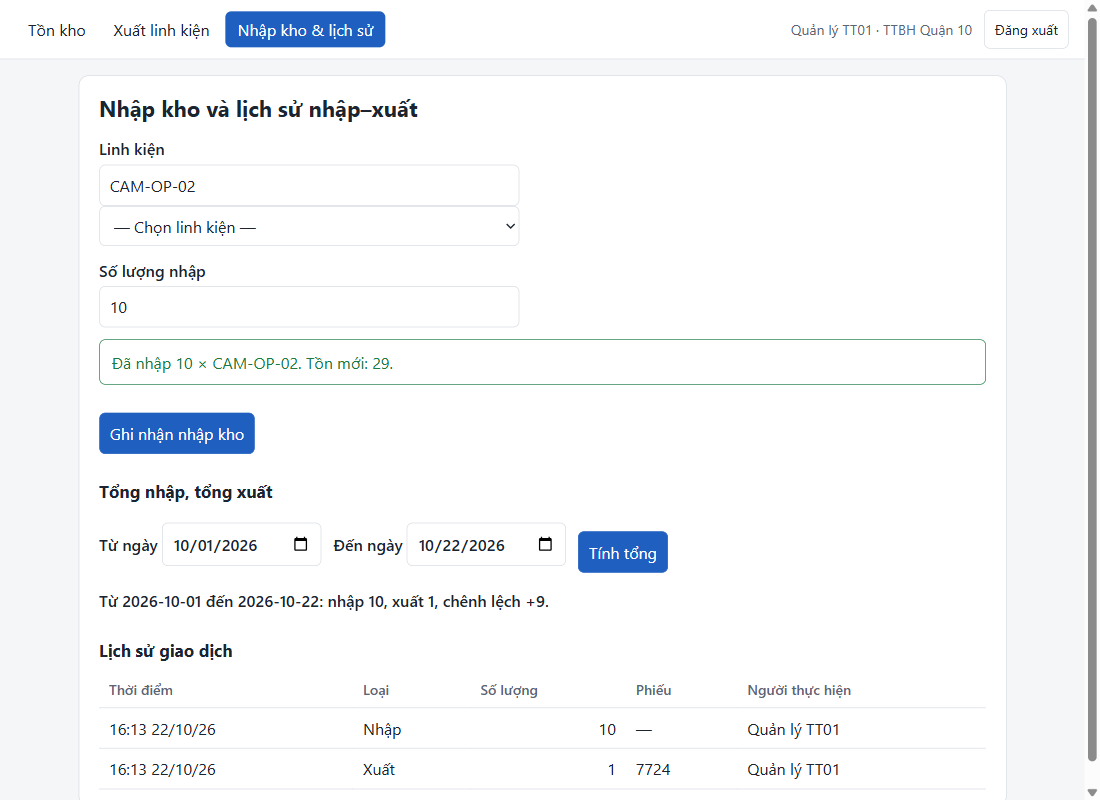
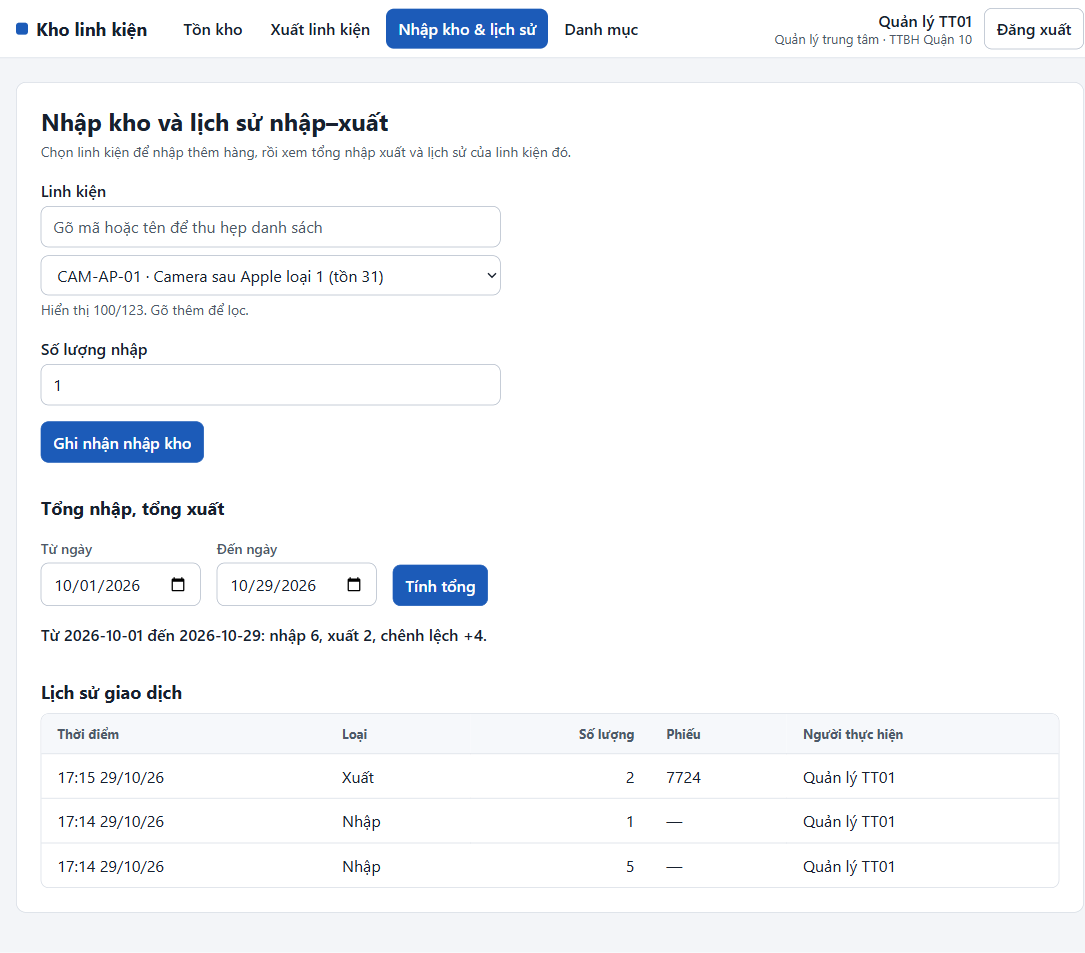
docs: cập nhật README, khai báo AI và ảnh chụp giao diện theo giao diện mới

diff --git a/README.md b/README.md
@@ -31,7 +31,7 @@ Bốn bước, mỗi bước một lệnh, chạy trong thư mục gốc của r
 3. `python -m src.db_init` (tự tạo CSDL nếu chưa có, tạo bảng và nạp dữ liệu mẫu; chạy lại lần hai không lỗi)
 4. `python -m src.app`
 
-Kiểm tra hệ thống chạy đúng: mở http://localhost:5000/health phải trả `{"db":"ok","status":"ok"}`; mở http://localhost:5000 và đăng nhập bằng mã người dùng `2` (kỹ thuật viên trung tâm Ninh Kiều) hoặc `101` (quản lý trung tâm Quận 10).
+Kiểm tra hệ thống chạy đúng: mở http://localhost:5000/health phải trả `{"db":"ok","status":"ok"}`; mở http://localhost:5000 và bấm "Kỹ thuật viên" (mã `2`, trung tâm Ninh Kiều) hoặc "Quản lý trung tâm" (mã `101`, trung tâm Quận 10) để đăng nhập ngay; tài khoản khác thì nhập mã ở mục "Đăng nhập bằng mã người dùng khác". Kỹ thuật viên chỉ thấy Tồn kho và Xuất linh kiện, quản lý thấy thêm Nhập kho và lịch sử, Danh mục. Màn hình Tồn kho lọc được theo từ khóa, tình trạng tồn (tất cả, dưới ngưỡng, hết hàng, còn đủ), sắp xếp và số dòng mỗi trang.
 
 Giao diện web không có bước chạy riêng: `python -m src.app` phục vụ cả API lẫn trang web trên cùng một cổng, nên chỉ cần mở http://localhost:5000 sau bước 4 và không phải cài hay chạy thêm gì cho `web/`. Giao diện luôn gọi API ở cùng địa chỉ với trang, nên không có biến cấu hình địa chỉ API; nếu tắt bước 4 thì giao diện hiện thông báo lỗi kèm nút Thử lại.
 
@@ -55,9 +55,9 @@ Biến môi trường (xem `.env.example`): `DB_HOST`, `DB_PORT`, `DB_NAME`, `DB
 Quy ước đặt tên: tên bảng, cột, đường dẫn API và mã lỗi dùng tiếng Anh theo bảng thuật ngữ mục 1 của SRS (`part`, `part_stock`, `ticket`, `INSUFFICIENT_STOCK`); tên hàm và biến trong mã nghiệp vụ dùng tiếng Việt không dấu (`xuat_linh_kien`, `ton`); thông báo hiển thị cho người dùng viết tiếng Việt có dấu.
 
 ## 5. Kiểm thử
-Kiểm thử tích hợp trên PostgreSQL thật (ngắt lỗi giữa chừng 1.000 lần, tám luồng xuất đồng thời) mặc định bị bỏ qua; chạy bằng `$env:RUN_PG_TESTS="1"; pytest tests/test_tich_hop_pg.py` sau khi đã chạy `python -m src.db_init`. Hai kiểm thử này mất khoảng một phút và tự xóa dữ liệu chúng tạo, nên chạy nhiều lần không làm đầy CSDL.
+Kiểm thử tích hợp trên PostgreSQL thật (ngắt lỗi giữa chừng 1.000 lần, tám luồng xuất đồng thời, lọc và sắp xếp tồn kho trên dữ liệu thật) mặc định bị bỏ qua; chạy bằng `$env:RUN_PG_TESTS="1"; pytest tests/test_tich_hop_pg.py` sau khi đã chạy `python -m src.db_init`. Ba kiểm thử này mất khoảng một phút; hai kiểm thử có ghi dữ liệu tự xóa hẳn dữ liệu chúng tạo và kiểm thử còn lại chỉ đọc, nên chạy nhiều lần không làm đầy CSDL.
 
-`pytest` chạy 47 test, không cần PostgreSQL (dùng repository giả), gồm ba loại: luồng đúng, giá trị biên (xuất đúng bằng tồn, vượt tồn 1 đơn vị, tồn bằng ngưỡng), dữ liệu sai và kiểm soát truy cập theo trung tâm.
+`pytest` chạy 51 test, không cần PostgreSQL (dùng repository giả), gồm ba loại: luồng đúng, giá trị biên (xuất đúng bằng tồn, vượt tồn 1 đơn vị, tồn bằng ngưỡng), dữ liệu sai và kiểm soát truy cập theo trung tâm.
 
 ## 6. Trạng thái hiện tại
 - [x] Điều chỉnh thiết kế theo phản hồi BT1 (docs/thay-doi-thiet-ke.md)
@@ -65,9 +65,10 @@ Kiểm thử tích hợp trên PostgreSQL thật (ngắt lỗi giữa chừng 1.
 - [x] Migration và dữ liệu mẫu
 - [x] Tra cứu tồn kho, xuất, nhập kho và lịch sử qua 3 lớp (routes, services, repositories)
 - [x] Xuất, nhập kho với quy tắc QT-09, QT-14
-- [x] 32 kiểm thử thuộc ba loại, cộng 2 kiểm thử tích hợp PostgreSQL (NFR2)
+- [x] 51 kiểm thử thuộc ba loại, cộng 3 kiểm thử tích hợp PostgreSQL (NFR2, bộ lọc tồn kho)
 - [x] Màn hình M1, M2, M3 gọi API thật, có trạng thái đang tải, rỗng, lỗi
-- [x] CRUD linh kiện và tồn kho (xóa mềm, migration 002), màn hình M4 Danh mục
+- [x] CRUD linh kiện và tồn kho (xóa mềm, migration 002), màn hình M4 Danh mục
+- [x] Màn hình Tồn kho có bộ lọc tình trạng tồn và sắp xếp; đăng nhập nhanh; menu theo vai trò; giao diện dùng được bằng bàn phím, có chế độ tối
 - [x] Kiểm thử ngắt lỗi giữa chừng và xuất đồng thời (TD-02)
 
-Ảnh chạy toàn luồng trên dữ liệu mẫu thật: docs/export/e2e-*.png. Bản ghi gọi API bằng curl: docs/export/curl-crud-linh-kien.txt.
+Ảnh chụp giao diện đang chạy trên dữ liệu mẫu thật: docs/export/e2e-*.png (đăng nhập, bộ lọc tồn kho, ba trạng thái đang tải, rỗng, lỗi, xuất linh kiện, nhập kho và lịch sử, danh mục). Bản ghi gọi API bằng curl: docs/export/curl-crud-linh-kien.txt.

diff --git a/docs/ai-disclosure.md b/docs/ai-disclosure.md
@@ -20,7 +20,7 @@ Công cụ AI duy nhất dùng trong giai đoạn này là Claude Code (mô hìn
 
 | Công cụ | Dùng vào việc gì | Áp dụng ở tệp / hàm | Đã kiểm chứng thế nào |
 |---|---|---|---|
-| Claude Code | Sinh toàn bộ bản mã đầu tiên của backend: routes, services, repositories, validators, xác thực token, gồm hàm `xuat_linh_kien`, `nhap_kho` và quy tắc QT-09, QT-14, QT-13 | `src/routes/api.py`, `src/services/stock_service.py`, `src/repositories/stock_repo.py`, `src/validators/stock.py`, `src/auth.py` | `pytest` (47 test PASS, ba loại, thêm 2 test tích hợp trên PostgreSQL thật); `grep` kiểm service không chứa dấu vết HTTP hay SQL; gọi 14 lời gọi API trên PostgreSQL 18 (ảnh Hình 3.2 trong PDF); so từng mã lỗi với `docs/api-contract.md` |
+| Claude Code | Sinh toàn bộ bản mã đầu tiên của backend: routes, services, repositories, validators, xác thực token, gồm hàm `xuat_linh_kien`, `nhap_kho` và quy tắc QT-09, QT-14, QT-13 | `src/routes/api.py`, `src/services/stock_service.py`, `src/repositories/stock_repo.py`, `src/validators/stock.py`, `src/auth.py` | `pytest` (51 test PASS, ba loại, thêm 3 test tích hợp trên PostgreSQL thật); `grep` kiểm service không chứa dấu vết HTTP hay SQL; gọi 14 lời gọi API trên PostgreSQL 18 (ảnh Hình 3.2 trong PDF); so từng mã lỗi với `docs/api-contract.md` |
 | Claude Code | Sinh lớp hợp đồng dữ liệu, log JSON, tự tạo CSDL trong `db_init` sau khi đối chiếu tài liệu Buổi 9, 11 | `src/routes/views.py` (commit `0e5ca1f`), `src/log_config.py` (commit `030c6f8`), `src/db_init.py` | `tests/test_hop_dong.py` (đổi tên một trường trong hợp đồng thì test vỡ); `tests/test_log.py`; chạy `db_init` trên máy chủ PostgreSQL trống hai lần; đọc dòng log thật, không chứa token |
 | Claude Code | Sinh bộ kiểm thử và repository giả trong bộ nhớ | `tests/conftest.py`, `tests/test_xuat_kho.py`, `tests/test_crud.py`, `tests/test_api.py`, `tests/test_hop_dong.py`, `tests/test_log.py`, `tests/test_tai_lieu.py`, `tests/test_tich_hop_pg.py` | Chạy `pytest` trước và sau khi sửa (test mất kết nối CSDL FAIL ở commit `04238a2`, PASS ở `4520fc8`); thử đổi tên trường và bỏ `FOR UPDATE` để xác nhận test phát hiện được lỗi (bỏ khóa thì test đồng thời FAIL 4 trong 5 lần) |
 | Claude Code | Sinh frontend JavaScript thuần: lớp gọi API, thành phần ba trạng thái, bốn màn hình, nút Xóa bộ lọc, giao diện màn hình hẹp | `web/src/api/client.js`, `web/src/components/DataState.js`, `web/src/pages/*.js`, `web/styles.css` | Chạy giao diện trên PostgreSQL thật với hai tài khoản; tắt backend rồi bấm Thử lại; đo không tràn ngang ở 375px trên cả bốn màn hình; `grep "fetch("` trong `web/src/pages` rỗng |
